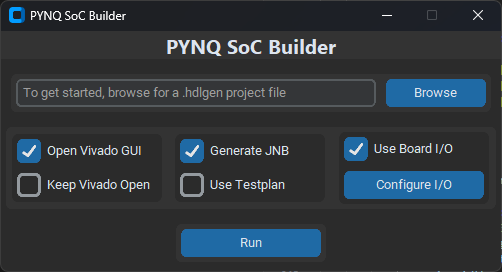
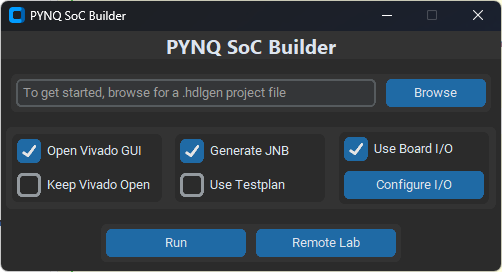
updated readme and images

Changed region(s): [[0.0, 0.0, 1.0, 1.0]]

diff --git a/README.md b/README.md
@@ -53,6 +53,12 @@ Once configured, the program may be run. Once the build has been completed, all 
 
 ![In Progress](docs/in_progress.png)
 
+Once the build has completed and you are ready to use PYNQ Z2 remote lab, select the "Remote Lab" option on the Main Menu. You will have an opportunity to select online boards or a livestream of the boards (for viewing LED I/O output).
+
+![Remote Menu](open_remote_lab.png)
+
+Selecting an option will open the corresponding board's Jupyter Notebook environment in your default web-browser.
+
 ## Results
 
 ### Block Design generated by SoC Builder on a CB4CLED project.
